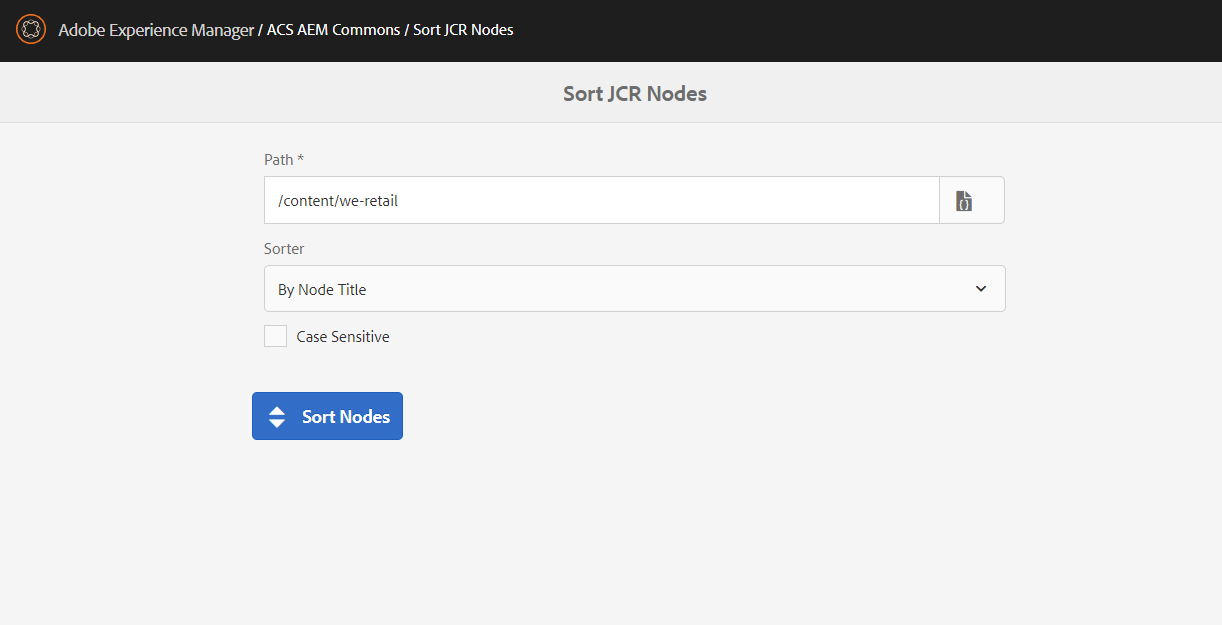
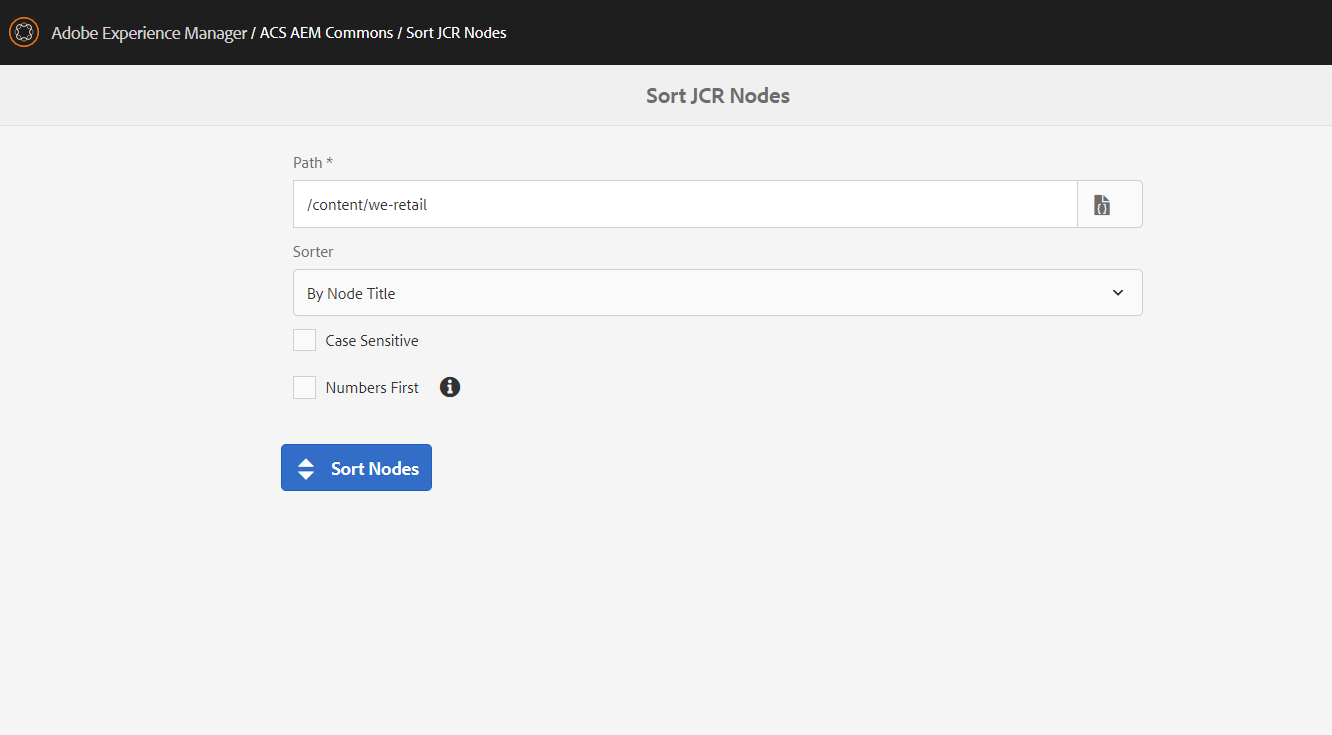
#2808 Sorting numerical or Integer tags in ascending order in AEM

diff --git a/_acs-aem-commons/features/sort-nodes/index.md b/_acs-aem-commons/features/sort-nodes/index.md
@@ -93,6 +93,39 @@ which will switch the mode to sort nodes regardless if they are `nt:hierarchyNod
      -  rep:policy  // non-hierarchy
 ```
 
+#### `:respectNumbers`
+Optional boolean parameter to control whether numbers should be sorted first followed by alphabetical values (default: `false`)
+
+The default value is `false` which means all values will be sorted alphabetically, e.g.
+```  
++  /content/someFolder
+     - 1
+     - 1-A
+     - 101 
+     - 11 
+     - 2-B
+     - 20
+     - 200
+     - 22 
+     - aaa 
+     - bbb 
+```
+
+With `:respectNumbers=true` numbers will be sorted first followed by alphabetical values:
+```  
++  /content/someFolder
+     - 1
+     - 11 
+     - 20
+     - 22 
+     - 101 
+     - 200
+     - 1-A
+     - 2-B
+     - aaa 
+     - bbb 
+```
+
 ## Extending SortNodesOperation
 
 OSGi services of the com.adobe.acs.commons.sorter.NodeSorter type can be used to implement new node sorters. For example, to register a sorter by _sling:resourceType_  deploy the service below:
